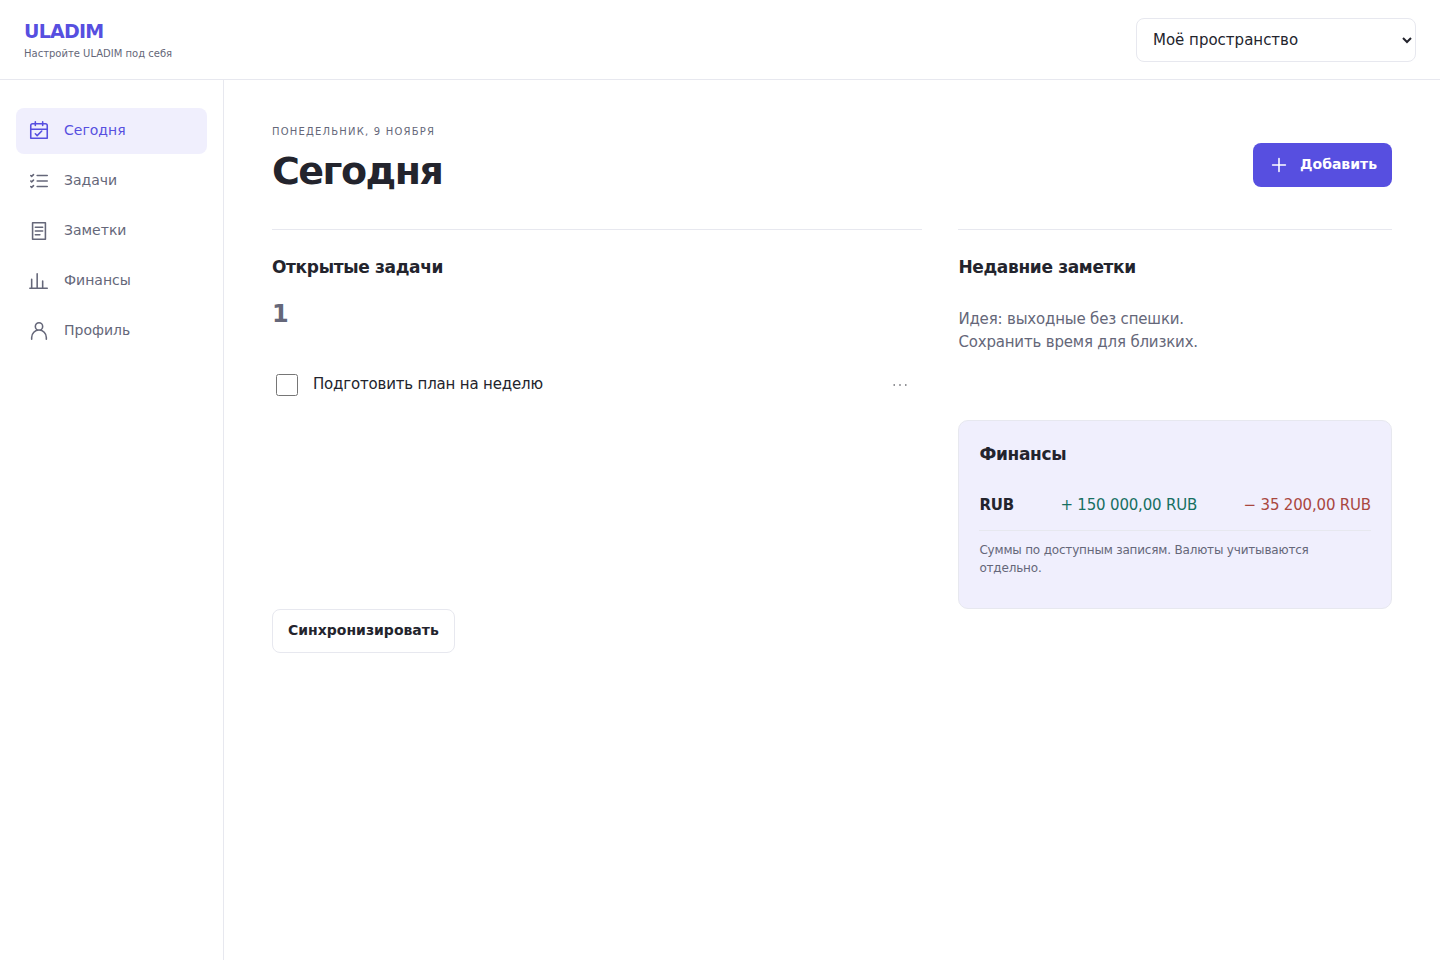
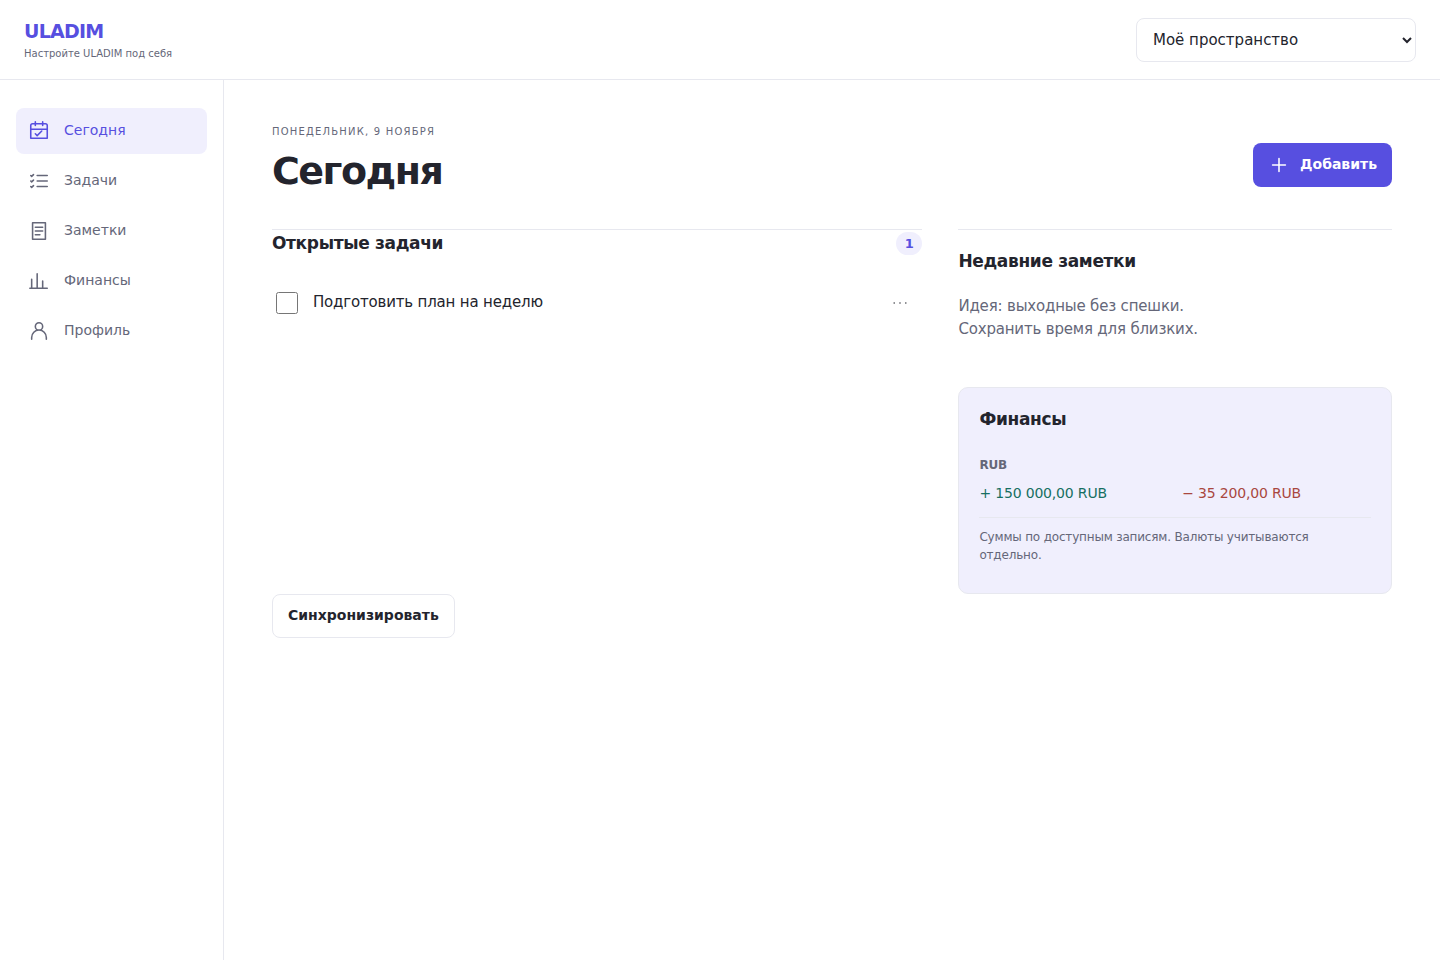
web: compact Today task counts and financial summary layout

diff --git a/backend/webassets/app/app.css b/backend/webassets/app/app.css
@@ -22,3 +22,8 @@ body[data-design=clarity] .nav{gap:4px;padding:8px 8px max(8px,env(safe-area-ins
 @media(max-width:759px){body[data-design=clarity] main{padding:26px 20px 118px}body[data-design=clarity] header{gap:12px;padding:calc(16px + env(safe-area-inset-top)) 20px 16px;height:calc(76px + env(safe-area-inset-top))}body[data-design=clarity] .workspace{max-width:180px}body[data-design=clarity] .grid{grid-template-columns:1fr;gap:8px}body[data-design=clarity] .today-grid .today-tasks{border:0;padding-top:0}body[data-design=clarity] .intro button{font-size:13px;padding:10px}body[data-design=clarity] .row .text{font-size:14px}body[data-design=clarity] .login{margin-top:4vh}}
 
 @media(prefers-color-scheme:dark){body:not([data-theme=light])[data-palette=ocean]{--income:#8bd3e4;--expense:#ffb1a3}body:not([data-theme=light])[data-palette=pistachio]{--income:#c2d389;--expense:#f5a5be}}
+
+.today-tasks h2{display:flex;align-items:center;justify-content:space-between;gap:12px}.task-count{font-size:13px;font-weight:550;line-height:1.5;padding:2px 9px;border-radius:20px;background:var(--soft);color:var(--accent)}
+body[data-design=clarity] .today-grid .card{padding-top:18px;padding-bottom:18px}body[data-design=clarity] .today-grid .today-tasks{padding-top:0}body[data-design=clarity] .today-finance .row{display:grid;grid-template-columns:1fr 1fr;gap:8px 14px}body[data-design=clarity] .today-finance .row>strong{grid-column:1/-1;font-size:12px;color:var(--muted)}body[data-design=clarity] .today-finance .income,body[data-design=clarity] .today-finance .expense{font-size:14px}body[data-design=clarity] .today-grid h2{margin-bottom:12px}body[data-design=clarity] .today-grid .today-finance{padding:18px 20px}body[data-design=clarity] .today-notes .note{padding:8px 0;margin:0}
+@media(max-width:759px){body[data-design=clarity] .today-grid{gap:0}body[data-design=clarity] .today-tasks .row{padding:12px 0}body[data-design=clarity] .intro{margin-bottom:18px}body[data-design=clarity] .today-grid .today-finance{margin-top:8px}}
+@media(max-width:360px){body[data-design=clarity] .today-finance .row{grid-template-columns:1fr}}

diff --git a/backend/webassets/app/app.js b/backend/webassets/app/app.js
@@ -65,7 +65,7 @@ function render(){if(!state.session){login();return;}const m=shell();if(state.ta
  if(state.tab==='today')today(m);else if(state.tab==='tasks')listTasks(m);else if(state.tab==='notes')listNotes(m);else if(state.tab==='money')finance(m);
 }
 function today(m){
- title(m,'today',()=>chooseAdd());const grid=E('div',undefined,'grid today-grid');m.append(grid);const tasks=records('task');const a=card(t('open_tasks'));a.classList.add('today-tasks');append(a,E('div',String(tasks.filter(r=>!r.data.completed).length),'stat'));for(const r of tasks.filter(r=>!r.data.completed).slice(0,3))a.append(taskRow(r));if(!tasks.length)a.append(E('p',t('empty_tasks')));grid.append(a);
+ title(m,'today',()=>chooseAdd());const grid=E('div',undefined,'grid today-grid');m.append(grid);const tasks=records('task');const a=card(t('open_tasks'));a.classList.add('today-tasks');a.querySelector('h2').append(E('span',new Intl.NumberFormat(state.lang).format(tasks.filter(r=>!r.data.completed).length),'task-count'));for(const r of tasks.filter(r=>!r.data.completed).slice(0,3))a.append(taskRow(r));if(!tasks.length)a.append(E('p',t('empty_tasks')));grid.append(a);
  const b=card(t('recent_notes'));b.classList.add('today-notes');for(const r of records('note').slice(-3).reverse())b.append(E('p',r.data.body.slice(0,160),'note'));if(!records('note').length)b.append(E('p',t('empty_notes')));grid.append(b);
  const c=card(t('finances'));c.classList.add('wide','today-finance');summaries(c);grid.append(c);m.append(button(t('family_sync'),async()=>{await refresh();render();}));
 }
